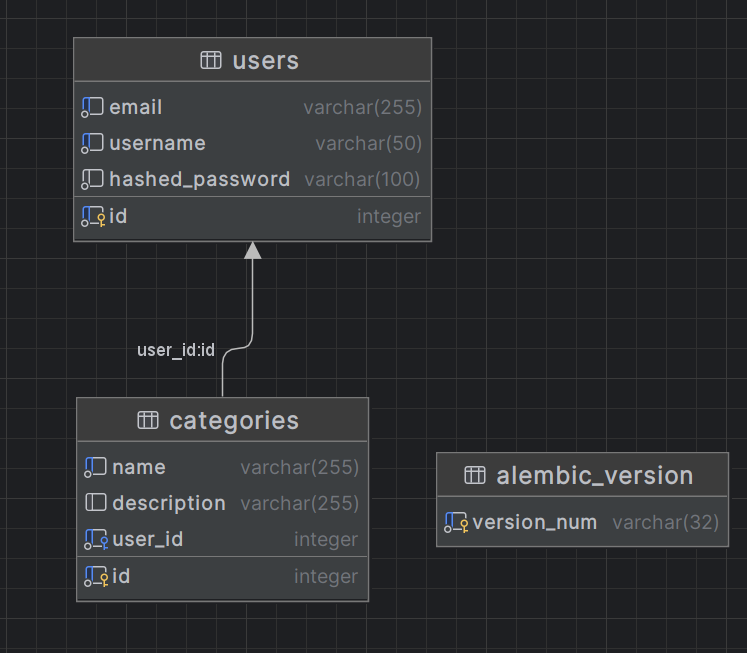
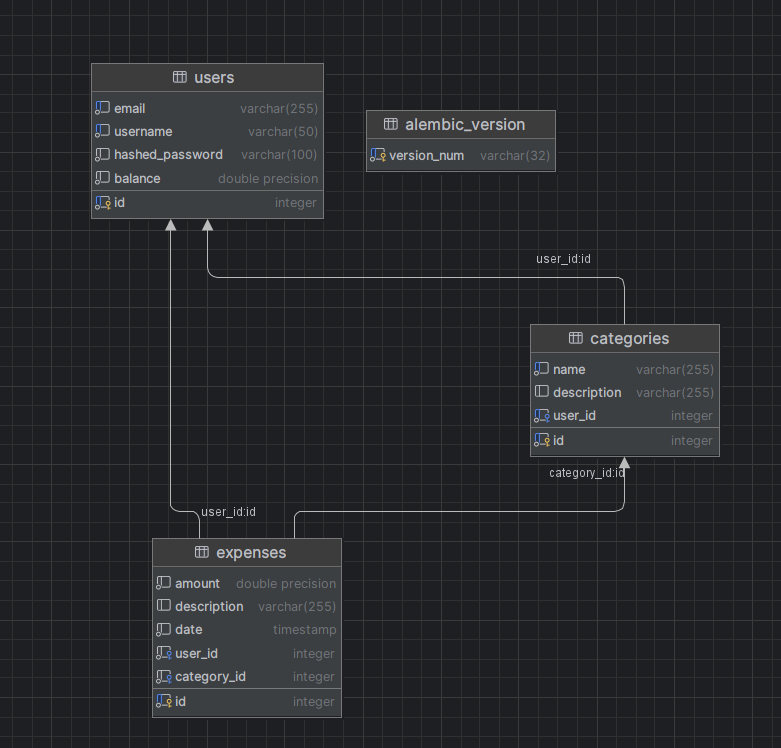
Test endpoints fully, migrate float to Numeric and write final documentation to send as the assignment

Changed region(s): [[0.0924, 0.0306, 0.8005, 0.9801], [0.585, 0.6738, 0.9853, 0.8576], [0.6774, 0.4288, 0.9237, 0.6432]]

diff --git a/alembic/versions/5c3cf6565bd6_change_float_to_decimal.py b/alembic/versions/5c3cf6565bd6_change_float_to_decimal.py
@@ -1,0 +1,48 @@
+"""Change float to Decimal
+
+Revision ID: 5c3cf6565bd6
+Revises: ce1845e19025
+Create Date: 2026-06-22 16:47:52.599122
+
+"""
+from typing import Sequence, Union
+
+from alembic import op
+import sqlalchemy as sa
+
+
+# revision identifiers, used by Alembic.
+revision: str = '5c3cf6565bd6'
+down_revision: Union[str, Sequence[str], None] = 'ce1845e19025'
+branch_labels: Union[str, Sequence[str], None] = None
+depends_on: Union[str, Sequence[str], None] = None
+
+
+def upgrade() -> None:
+    """Upgrade schema."""
+    # ### commands auto generated by Alembic - please adjust! ###
+    op.alter_column('expenses', 'amount',
+               existing_type=sa.DOUBLE_PRECISION(precision=53),
+               type_=sa.Numeric(precision=12, scale=2),
+               existing_nullable=False)
+    op.alter_column('users', 'balance',
+               existing_type=sa.DOUBLE_PRECISION(precision=53),
+               type_=sa.Numeric(precision=12, scale=2),
+               existing_nullable=False,
+               existing_server_default=sa.text("'10000'::double precision"))
+    # ### end Alembic commands ###
+
+
+def downgrade() -> None:
+    """Downgrade schema."""
+    # ### commands auto generated by Alembic - please adjust! ###
+    op.alter_column('users', 'balance',
+               existing_type=sa.Numeric(precision=12, scale=2),
+               type_=sa.DOUBLE_PRECISION(precision=53),
+               existing_nullable=False,
+               existing_server_default=sa.text("'10000'::double precision"))
+    op.alter_column('expenses', 'amount',
+               existing_type=sa.Numeric(precision=12, scale=2),
+               type_=sa.DOUBLE_PRECISION(precision=53),
+               existing_nullable=False)
+    # ### end Alembic commands ###

diff --git a/app/schemas/expense_schema.py b/app/schemas/expense_schema.py
@@ -1,12 +1,14 @@
 from datetime import datetime
+from decimal import Decimal
 
 from pydantic import BaseModel, ConfigDict, Field
 
 
 class ExpenseCreate(BaseModel):
-    amount: float = Field(
+    amount: Decimal = Field(
         description="Amount spent (must be greater than 0)",
         gt=0,
+        decimal_places=2,
         examples=[49.99]
     )
     description: str | None = Field(
@@ -27,10 +29,11 @@ class ExpenseCreate(BaseModel):
 
 
 class ExpenseUpdate(BaseModel):
-    amount: float | None = Field(
+    amount: Decimal | None = Field(
         default=None,
         description="Updated amount spent (must be greater than 0)",
         gt=0,
+        decimal_places=2,
         examples=[59.99]
     )
     description: str | None = Field(
@@ -56,14 +59,14 @@ class ExpenseResponse(BaseModel):
     model_config = ConfigDict(from_attributes=True)
 
     id: int = Field(description="Unique expense identifier")
-    amount: float = Field(description="Amount spent")
+    amount: Decimal = Field(description="Amount spent")
     description: str | None = Field(description="Expense description")
     date: datetime = Field(description="Date and time of the expense")
     category_id: int = Field(description="Category this expense belongs to")
 
 
 class ExpenseSummaryResponse(BaseModel):
-    total: float = Field(description="Sum of all matched expenses")
+    total: Decimal = Field(description="Sum of all matched expenses")
     count: int = Field(description="Number of matched expenses")
     period_from: datetime = Field(description="Start of the resolved period (inclusive)")
     period_to: datetime = Field(description="End of the resolved period (inclusive)")

diff --git a/tests/services/test_expense_service.py b/tests/services/test_expense_service.py
@@ -1,4 +1,5 @@
 from datetime import datetime, timezone
+from decimal import Decimal
 from unittest.mock import MagicMock, patch
 
 import pytest
@@ -26,7 +27,7 @@ def make_mock_expense(
 ):
     expense = MagicMock()
     expense.id = id_make
-    expense.amount = amount
+    expense.amount = Decimal(str(amount))
     expense.description = description
     expense.date = date
     expense.category_id = category_id
@@ -50,6 +51,7 @@ def db():
 def user():
     u = MagicMock()
     u.id = 1
+    u.balance = Decimal("1000.00")
     return u
 
 
@@ -164,7 +166,7 @@ class TestUpdateExpense:
             result = update_expense(1, body, db, user)
 
         assert isinstance(result, ExpenseResponse)
-        assert result.amount == 99.99
+        assert result.amount == Decimal("99.99")
 
     def test_raises_404_if_expense_not_found(self, db, user):
         body = ExpenseUpdate(amount=99.99)
@@ -206,7 +208,7 @@ class TestUpdateExpense:
         with patch("app.services.expense_service.expense_repository.get_expense_by_id", return_value=mock_expense):
             update_expense(1, body, db, user)
 
-        assert mock_expense.amount == 200.0
+        assert mock_expense.amount == Decimal("200.0")
         assert mock_expense.description == "Original"
         assert mock_expense.category_id == 1
 

diff --git a/tests/services/test_categories_service.py b/tests/services/test_categories_service.py
@@ -3,7 +3,7 @@ from unittest.mock import MagicMock, patch
 import pytest
 from fastapi import HTTPException
 
-from app.schemas.category_schema import CategoryCreate, CategoryCreated
+from app.schemas.category_schema import CategoryCreate, CategoryResponse
 from app.services.category_service import create_category
 
 
@@ -27,7 +27,7 @@ class TestCreateCategory:
         ):
             result = create_category(category, db, user)
 
-        assert isinstance(result, CategoryCreated)
+        assert isinstance(result, CategoryResponse)
 
     def test_raise_400_if_name_taken(self):
         category = CategoryCreate(name="Test Category", description="Test Category")
@@ -43,7 +43,7 @@ class TestCreateCategory:
 
     def test_returns_category_for_correct_body(self):
         category_body = CategoryCreate(name="Test Category", description="Test Category")
-        category_response = CategoryCreated(id=1, name="Test Category", description="Test Category")
+        category_response = CategoryResponse(id=1, name="Test Category", description="Test Category")
         db = MagicMock()
         user = MagicMock()
         user.id = 1

diff --git a/tests/services/test_user_service.py b/tests/services/test_user_service.py
@@ -1,3 +1,4 @@
+from decimal import Decimal
 from unittest.mock import MagicMock, patch
 
 import pytest
@@ -19,6 +20,7 @@ class TestCreateUser:
             id=1,
             username="test_username",
             email="test123@example.com",
+            balance=0.0,
         )
         db = MagicMock()
 
@@ -26,6 +28,7 @@ class TestCreateUser:
         mock_user.id = 1
         mock_user.username = "test_username"
         mock_user.email = "test123@example.com"
+        mock_user.balance = 0.0
 
         with (
             patch("app.services.user_service.user_repository.get_by_email_or_username", return_value=None),
@@ -60,6 +63,7 @@ class TestCreateUser:
         mock_user.id = 1
         mock_user.email = "test123@example.com"
         mock_user.username = "test_username"
+        mock_user.balance = Decimal("10000.00")
 
         with (
             patch("app.services.user_service.user_repository.get_by_email_or_username", return_value=None),

diff --git a/app/models/user_model.py b/app/models/user_model.py
@@ -1,6 +1,7 @@
+from decimal import Decimal
 from typing import List
 
-from sqlalchemy import Float, String
+from sqlalchemy import Numeric, String
 from sqlalchemy.orm import Mapped, mapped_column, relationship
 
 from app.core.database import Base
@@ -12,7 +13,7 @@ class User(Base):
     email: Mapped[str] = mapped_column(String(255), nullable=False, unique=True)
     username: Mapped[str] = mapped_column(String(50), nullable=False, unique=True, index=True)
     hashed_password: Mapped[str] = mapped_column(String(100), nullable=False)
-    balance: Mapped[float] = mapped_column(Float, nullable=False, default=10000.0)
+    balance: Mapped[Decimal] = mapped_column(Numeric(12, 2), nullable=False, default=Decimal("10000.00"))
 
     categories: Mapped[List["Categories"]] = relationship(back_populates="user")
     expenses: Mapped[List["Expense"]] = relationship(back_populates="user")

diff --git a/app/models/expense_model.py b/app/models/expense_model.py
@@ -1,6 +1,7 @@
-from datetime import datetime, timezone
+from datetime import datetime
+from decimal import Decimal
 
-from sqlalchemy import Integer, String, Float, DateTime, ForeignKey
+from sqlalchemy import Integer, String, Numeric, DateTime, ForeignKey
 from sqlalchemy.orm import Mapped, mapped_column, relationship
 
 from app.core.database import Base
@@ -9,7 +10,7 @@ class Expense(Base):
     __tablename__ = "expenses"
 
     id: Mapped[int] = mapped_column(Integer, primary_key=True, index=True)
-    amount: Mapped[float] = mapped_column(Float, nullable=False)
+    amount: Mapped[Decimal] = mapped_column(Numeric(12, 2), nullable=False)
     description: Mapped[str | None] = mapped_column(String(255), nullable=True)
     date: Mapped[datetime] = mapped_column(
         DateTime,

diff --git a/app/repositories/expense_repository.py b/app/repositories/expense_repository.py
@@ -1,4 +1,5 @@
 from datetime import datetime
+from decimal import Decimal
 
 from sqlalchemy import select, func
 from sqlalchemy.orm import Session
@@ -43,7 +44,7 @@ def get_expense_summary(
     date_to: datetime,
     db: Session,
     category_id: int | None = None,
-) -> tuple[float, int]:
+) -> tuple[Decimal, int]:
     query = (
         select(func.sum(Expense.amount), func.count(Expense.id))
         .where(Expense.user_id == user_id)
@@ -55,7 +56,7 @@ def get_expense_summary(
 
     total, count = db.execute(query).one()
 
-    return total if total is not None else 0.0, count if count is not None else 0
+    return total if total is not None else Decimal("0.00"), count if count is not None else 0
 
 
 def add_expense(db: Session, expense: Expense) -> Expense:

diff --git a/app/services/expense_service.py b/app/services/expense_service.py
@@ -68,6 +68,10 @@ def update_expense(expense_id: int, body: ExpenseUpdate, db: Session, user: User
         expense.category_id = body.category_id
 
     if body.amount is not None:
+        difference = body.amount - expense.amount
+        if difference > user.balance:
+            raise HTTPException(status_code=400, detail="Insufficient balance")
+        user.balance -= difference
         expense.amount = body.amount
     if body.description is not None:
         expense.description = body.description

diff --git a/app/schemas/user_schema.py b/app/schemas/user_schema.py
@@ -1,3 +1,5 @@
+from decimal import Decimal
+
 from pydantic import BaseModel, EmailStr, Field, ConfigDict
 
 
@@ -41,7 +43,7 @@ class UserOut(BaseModel):
     id: int = Field(description="Unique user identifier")
     email: EmailStr = Field(description="User's email address")
     username: str = Field(description="User's username")
-    balance: float = Field(description="Current account balance")
+    balance: Decimal = Field(description="Current account balance")
 
 
 class Token(BaseModel):

diff --git a/app/core/config.py b/app/core/config.py
@@ -1,10 +1,11 @@
 import os
+from decimal import Decimal
 
 SECRET_KEY = os.getenv("SECRET_KEY", "")
 ALGORITHM = "HS256"
 ACCESS_TOKEN_EXPIRE_MINUTES = 10
 
-DEFAULT_BALANCE: float = 10000.00
+DEFAULT_BALANCE: Decimal = Decimal("10000.00")
 
 PREDEFINED_CATEGORIES: list[tuple[str, str]] = [
     ("Groceries", "Food for daily use at home"),

diff --git a/alembic/env.py b/alembic/env.py
@@ -24,6 +24,7 @@ config.set_main_option("sqlalchemy.url", database_url)
 from app.core.database import Base
 from app.models.user_model import User
 from app.models.category_model import Categories
+from app.models.expense_model import Expense
 
 target_metadata = Base.metadata
 
